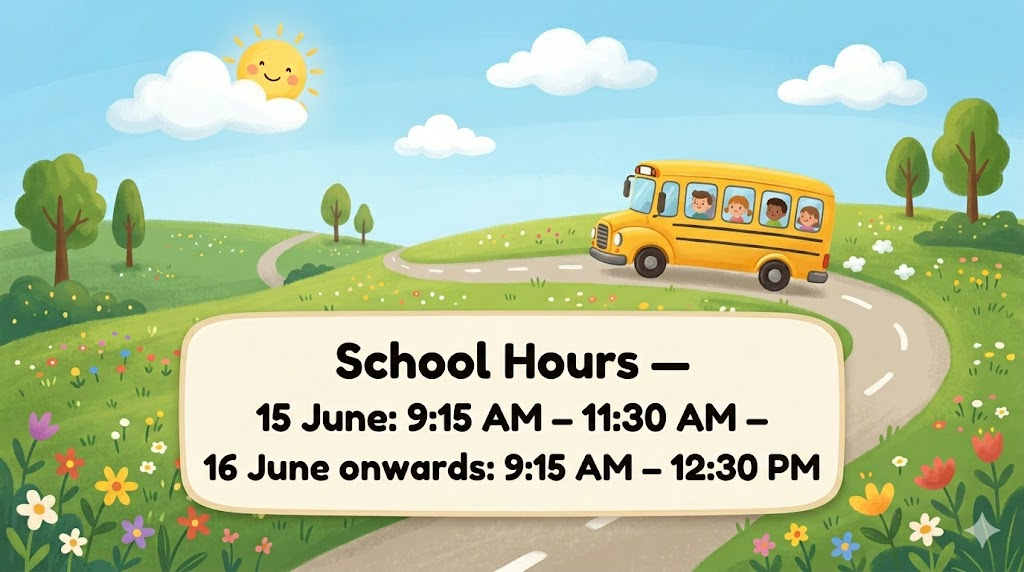
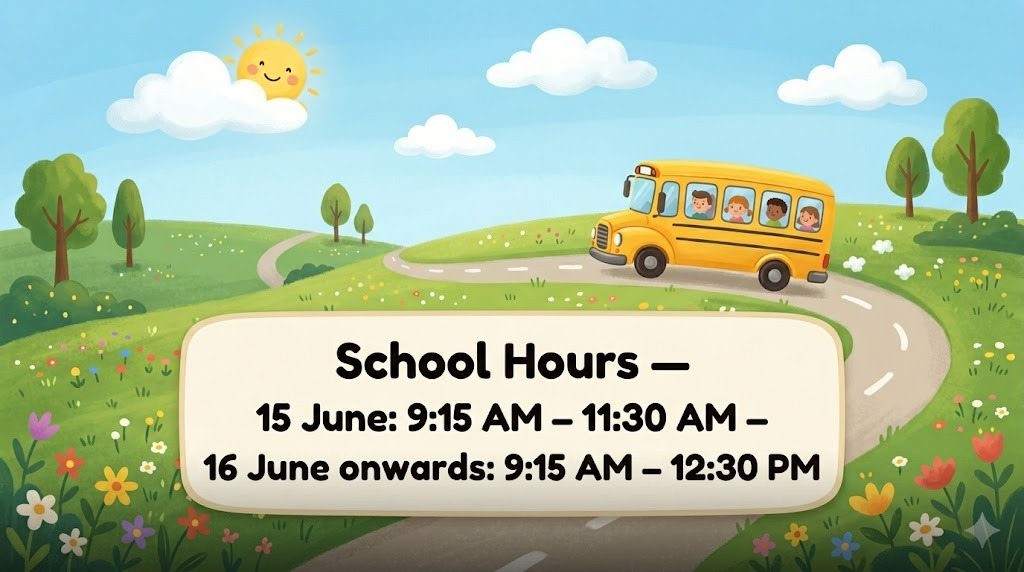
Darken bottom strip for overlay legibility + add reusable darken script

Changed region(s): [[0.0, 0.8322, 1.0, 1.0]]

diff --git a/scripts/darken_bottom.py b/scripts/darken_bottom.py
@@ -1,0 +1,36 @@
+#!/usr/bin/env python3
+"""Darken the bottom strip of an image with a smooth gradient.
+
+Improves legibility of AerialViews overlays (clock, weather, metadata) that sit
+along the bottom of the screen. Run once on a fresh (bright) image.
+
+Usage:
+    python darken_bottom.py INPUT [OUTPUT] [--fraction 0.2] [--max-alpha 0.55]
+
+If OUTPUT is omitted, the input is overwritten.
+"""
+import argparse
+from PIL import Image
+
+
+def darken_bottom(inp: str, outp: str, fraction: float, max_alpha: float) -> None:
+    img = Image.open(inp).convert("RGBA")
+    w, h = img.size
+    strip = max(1, int(h * fraction))
+    start = h - strip
+    for y in range(start, h):
+        t = (y - start) / strip          # 0 at top of strip, 1 at bottom edge
+        alpha = int(255 * max_alpha * (t ** 1.4))  # eased so the top stays subtle
+        img.alpha_composite(Image.new("RGBA", (w, 1), (0, 0, 0, alpha)), (0, y))
+    img.convert("RGB").save(outp, quality=92)
+
+
+if __name__ == "__main__":
+    p = argparse.ArgumentParser(description=__doc__)
+    p.add_argument("input")
+    p.add_argument("output", nargs="?")
+    p.add_argument("--fraction", type=float, default=0.2, help="bottom portion to darken (0-1)")
+    p.add_argument("--max-alpha", type=float, default=0.55, help="darkness at the very bottom (0-1)")
+    a = p.parse_args()
+    darken_bottom(a.input, a.output or a.input, a.fraction, a.max_alpha)
+    print(f"Darkened bottom {a.fraction:.0%} -> {a.output or a.input}")